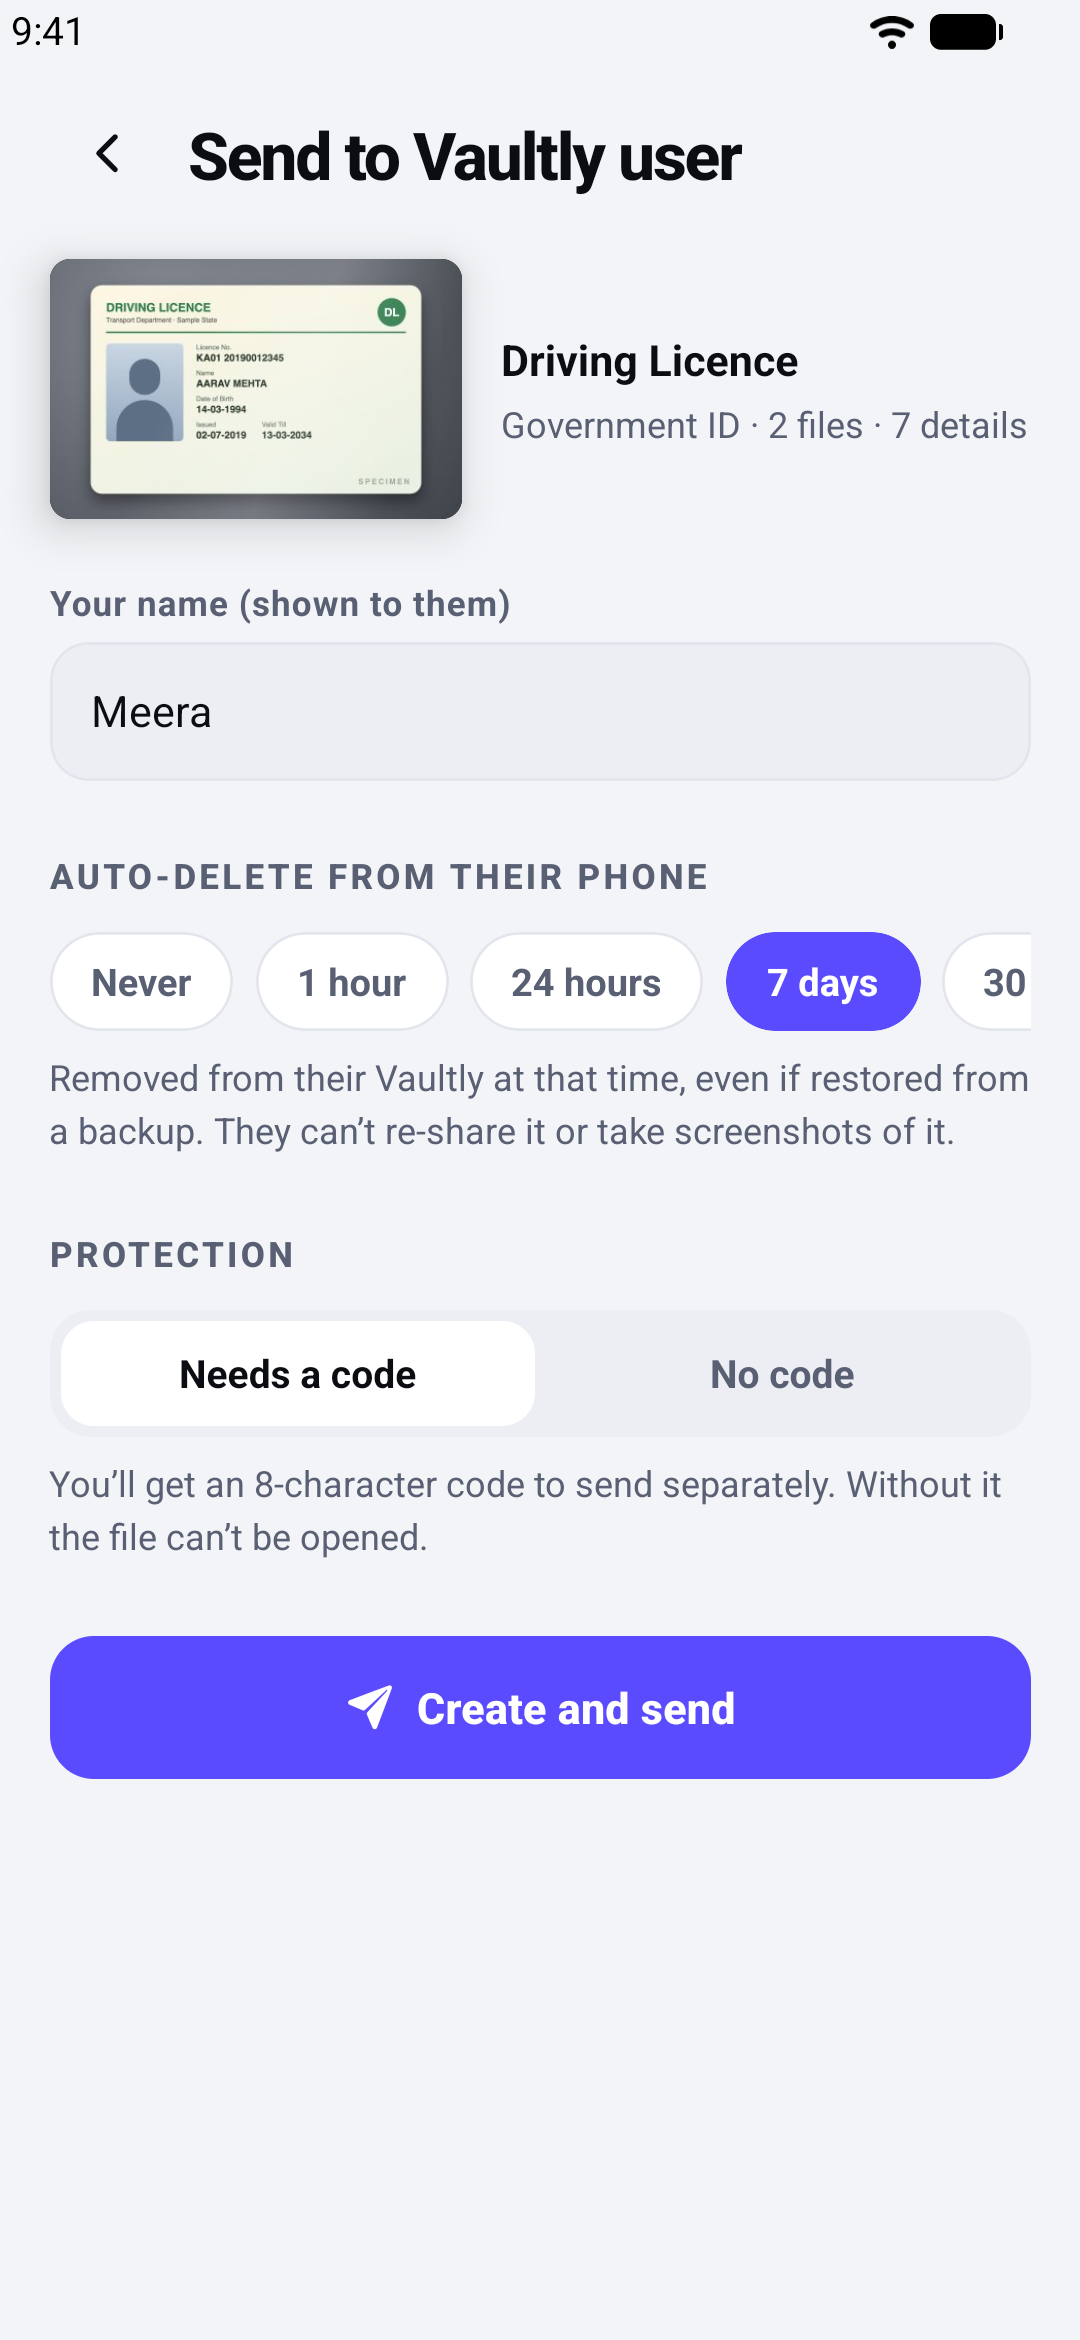
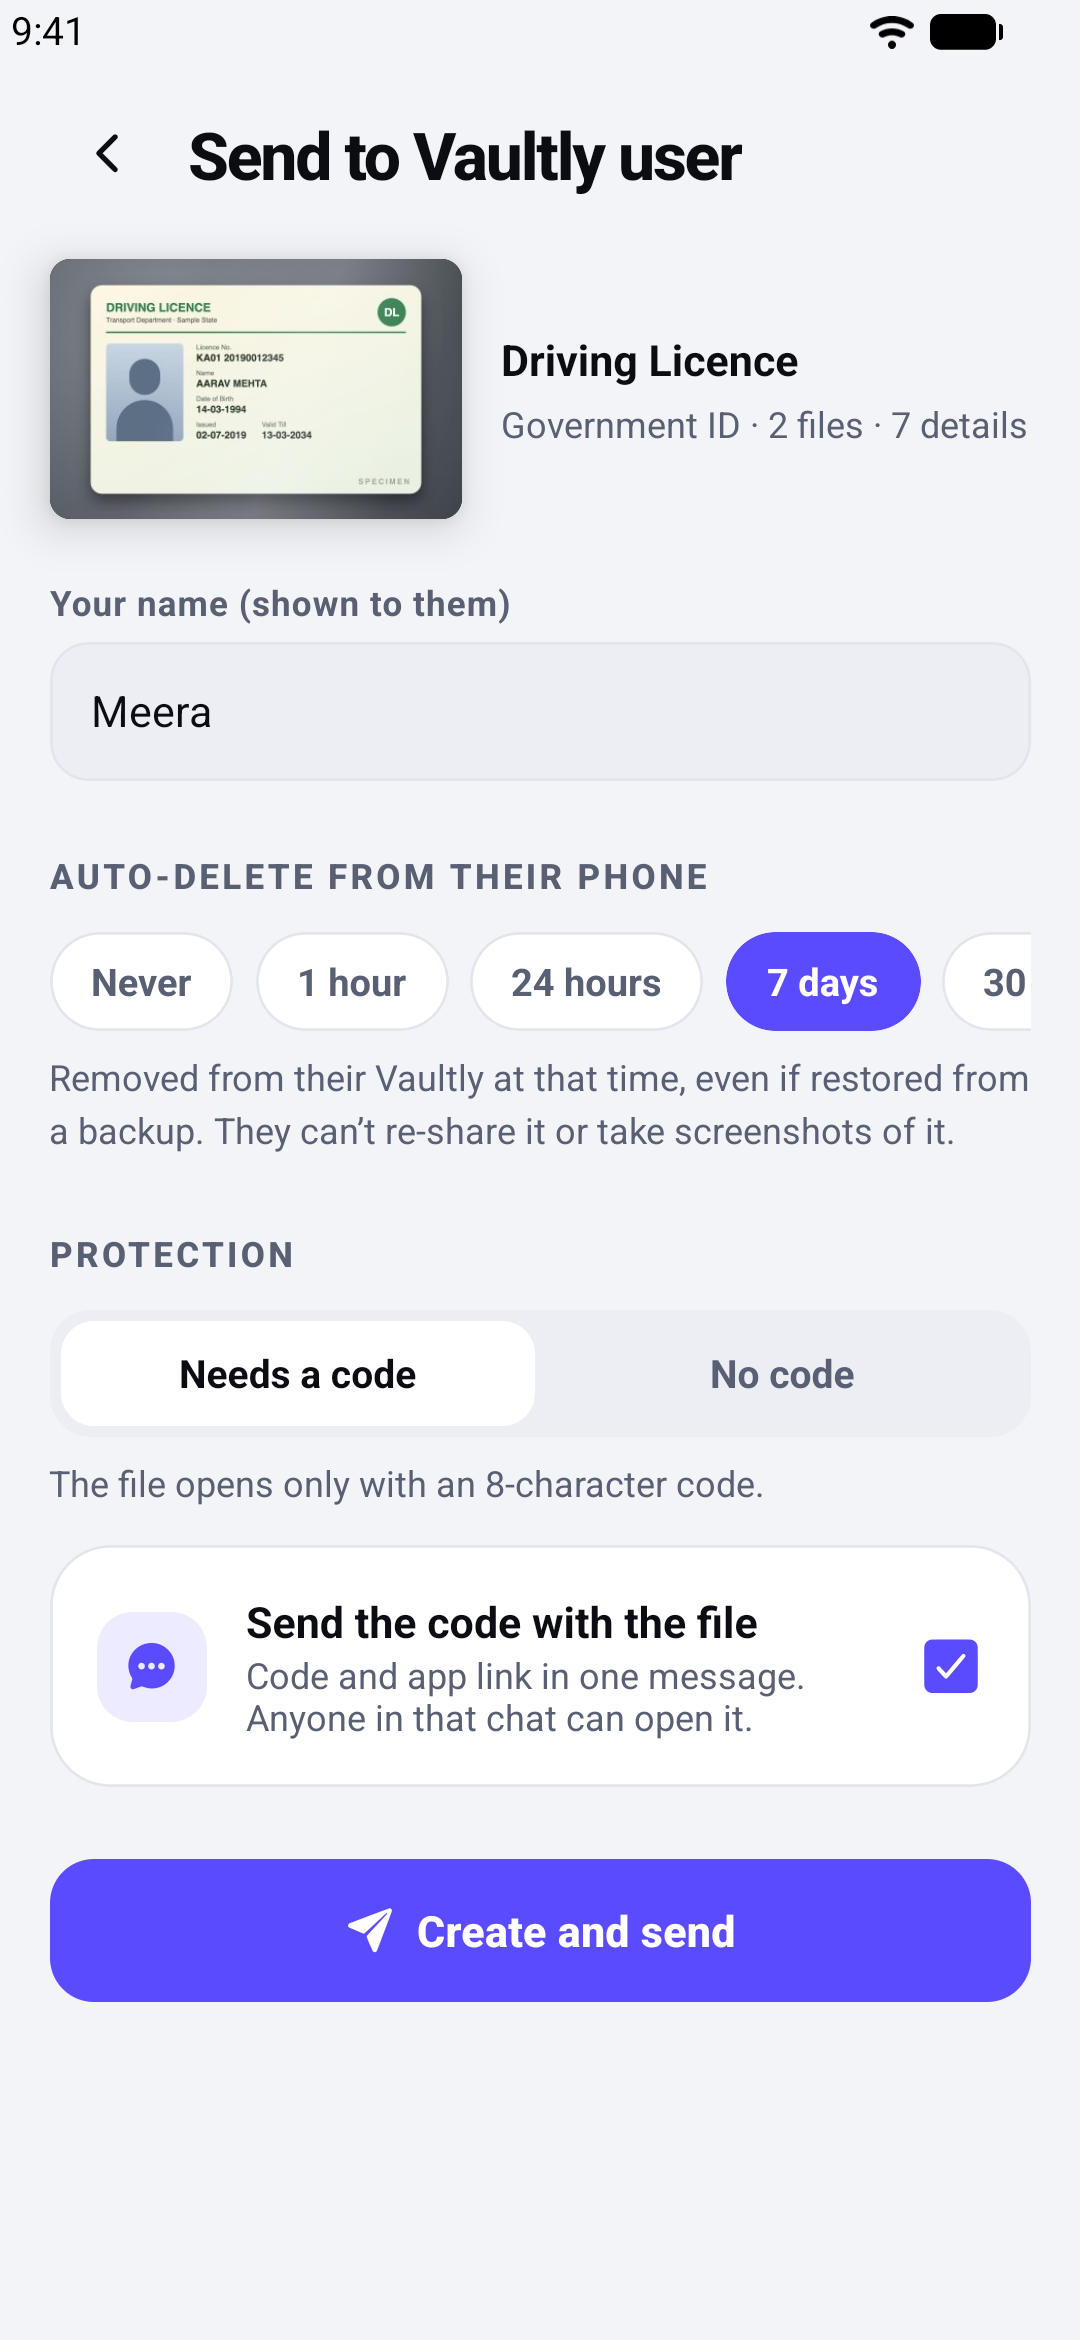
Vaultly 1.2.0: share message, share history, document magnifier, view-only timed items

Changed region(s): [[0.0306, 0.6239, 0.9778, 0.8735], [0.7944, 0.6239, 0.8861, 0.6551]]

diff --git a/docs/index.html b/docs/index.html
@@ -3,7 +3,7 @@
 <title>Vaultly</title><meta name="description" content="Cards and documents wallet for Android. Everything stays on your phone."><link rel="stylesheet" href="style.css"></head>
 <body><main>
 <h1>Vaultly</h1>
-<p>Cards and documents wallet for Android. Keep payment cards as virtual cards, ID cards with front and back, and documents as images or PDF — for you and your family, kept separate. Everything stays on your phone, sensitive numbers are encrypted, and backups go only where you choose.</p>
+<p>Cards and documents wallet for Android. Keep payment cards as virtual cards, ID cards with front and back, and documents as images or PDF, for you and your family, kept separate. Everything stays on your phone, sensitive numbers are encrypted, and backups go only where you choose.</p>
 <p><a class="btn" href="https://github.com/thekirankumarv/Vaultly-releases/releases/latest">Download for Android</a><a href="privacy.html">Privacy policy</a></p>
 <h2>Contact</h2><p><a href="mailto:dev.buildmode@gmail.com">dev.buildmode@gmail.com</a></p>
 </main></body></html>

diff --git a/README.md b/README.md
@@ -68,6 +68,7 @@ Needs Android 7.0 or newer on a 64-bit (arm64) phone, which covers almost every 
 ### 📄 Documents
 - Scan with auto-crop and enhance (several pages at once), pick photos, or upload a PDF
 - PDFs show their first page; multi-page scans swipe page by page
+- **Press and hold a page** for a round magnifier that follows your finger, so fine print is easy to read (photos and PDFs)
 - **Share or save as PDF or as images**, whatever format you added it in: both sides go in one share, and saves go straight to Downloads
 - Categories (Insurance, Property, Education, Bills…), validity dates and **expiring soon** on Home
 
@@ -81,12 +82,13 @@ Needs Android 7.0 or newer on a 64-bit (arm64) phone, which covers almost every 
 - Kept separate from yours everywhere; pick who an item belongs to when adding it
 
 ### 📤 Send to another Vaultly user
-- Send an ID card, document or pay card to someone far away: **⋯ → Send to Vaultly user**, then share the `.vaultly` file on WhatsApp, Telegram, email or Quick Share
+- Send an ID card, document or pay card to someone far away: **⋯ → Send to Vaultly user**, and the share sheet opens with the `.vaultly` file and a short message with the code and a link to get Vaultly, ready for WhatsApp, Telegram, email or Quick Share
 - They tap the file, open it with Vaultly and add it in one tap: to themselves, a family member, or a new person such as a friend
 - **Nothing is lost:** original images and PDFs, every detail and the validity date arrive exactly as saved
 - **Auto-delete:** never, 1 hour, 24 hours, 7 days, 30 days or a date you pick. A glowing countdown shows on the item; when time runs out it's removed from their phone, even if it comes back from a backup
-- Protected by an 8-character code you send separately (or no code, your choice). Pay cards go with the last 4 digits unless you choose the full number
-- Timed items can't be re-shared and screenshots are blocked
+- Protected by an 8-character code (or no code, your choice). Send it in the same message, or untick that and share it yourself. Pay cards go with the last 4 digits unless you choose the full number
+- **Share history** in Settings keeps the codes you sent for 24 hours (hidden until you tap), so you can copy one again
+- Timed items are view only: saving, sharing, copying and screenshots are all turned off
 
 ### ✨ Ask Vaultly
 - Tap the glowing orb and ask in plain words: *"mom's Aadhaar number"*, *"Nova credit card"*, *"what expires soon"*, *"list all documents"*
@@ -156,12 +158,14 @@ Needs Android 7.0 or newer on a 64-bit (arm64) phone, which covers almost every 
 ### Send to another Vaultly user
 <p>
   <img src="screenshots/33-send.png" width="200" alt="Send to Vaultly user" />
-  <img src="screenshots/34-send-code.png" width="200" alt="Code to open it" />
+  <img src="screenshots/34-send-code.png" width="200" alt="Sent with the code" />
   <img src="screenshots/35-receive.png" width="200" alt="Add shared item" />
   <img src="screenshots/36-shared-timer.png" width="200" alt="Auto-delete countdown" />
 </p>
 <p>
+  <img src="screenshots/38-share-history.png" width="200" alt="Share history" />
   <img src="screenshots/37-id-peek.png" width="200" alt="Press and hold an ID card to preview" />
+  <img src="screenshots/39-doc-magnifier.png" width="200" alt="Document magnifier" />
 </p>
 
 ### Dark theme
@@ -253,7 +257,7 @@ Yes. Add members in the **Family** tab. Their cards and documents stay separate 
 <details>
 <summary><b>Can I send a document to someone else who uses Vaultly?</b></summary>
 
-Yes. Open it, tap **⋯ → Send to Vaultly user**, choose when it should auto-delete and whether it needs a code, and send the file on any chat app. They open it with Vaultly (or **Settings → Receive shared item**), enter the code and pick who it belongs to. Images, PDFs and every detail arrive exactly as you saved them. There's no server, so a sent item can't be taken back, so choose an auto-delete time instead.
+Yes. Open it, tap **⋯ → Send to Vaultly user**, choose when it should auto-delete and whether it needs a code, and tap **Create and send**: the file and a short message with the code go out together on any chat app. Lost the code? **Settings → Share history** keeps it for 24 hours. They open it with Vaultly (or **Settings → Receive shared item**), enter the code and pick who it belongs to. Images, PDFs and every detail arrive exactly as you saved them. There's no server, so a sent item can't be taken back, so choose an auto-delete time instead.
 </details>
 
 <details>
